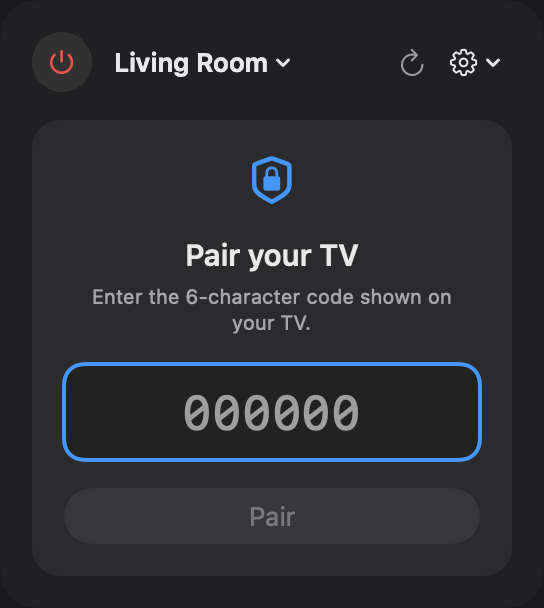
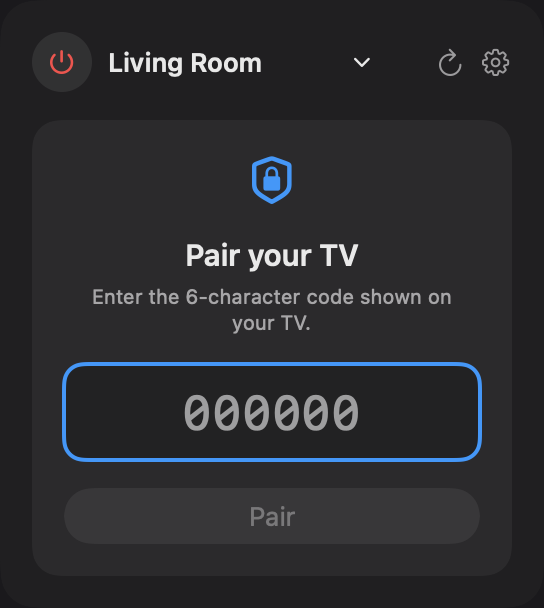
Keep TV selection and settings inside the remote window

diff --git a/Sources/UniversalTVRemote/App.swift b/Sources/UniversalTVRemote/App.swift
@@ -183,6 +183,8 @@ struct UniversalTVRemoteApp: App {
 
 // MARK: - The remote
 
+enum RemotePanel { case remote, devices, settings }
+
 struct RemoteView: View {
     @EnvironmentObject private var state: AppState
     @State private var pinInput = ""
@@ -200,14 +202,20 @@ struct RemoteView: View {
     @State private var renameInput = ""
     @State private var screenHeight: CGFloat = NSScreen.main?.visibleFrame.height ?? 800
     private let previewHeight: CGFloat?
+    @State private var panel: RemotePanel = .remote
 
-    init(appsExpanded: Bool = false, availableHeight: CGFloat? = nil) {
+    init(appsExpanded: Bool = false, availableHeight: CGFloat? = nil, panel: RemotePanel = .remote) {
         _appsExpanded = .init(initialValue: appsExpanded)
+        _panel = .init(initialValue: panel)
         previewHeight = availableHeight
     }
 
     private var maximumBodyHeight: CGFloat {
         max(180, (previewHeight ?? screenHeight) - 100)
+    }
+
+    private var capturesTextInput: Bool {
+        panel != .remote || addingManually || renaming || typingFocused || pairingFocused
     }
 
     var body: some View {
@@ -237,13 +245,13 @@ struct RemoteView: View {
         .environment(\.offlinePreview, !state.startsDiscovery)
         .onAppear {
             if case .awaitingPairing(.pin) = state.session?.state { pairingFocused = true }
+            state.textFieldFocused = capturesTextInput
             guard state.startsDiscovery else { return }
             state.discovery.scan()
             state.installKeyMonitors()
         }
-        .onDisappear { state.removeKeyMonitors() }
-        .onChange(of: typingFocused) { _, focused in state.textFieldFocused = focused || pairingFocused }
-        .onChange(of: pairingFocused) { _, focused in state.textFieldFocused = focused || typingFocused }
+        .onDisappear { state.removeKeyMonitors(); state.textFieldFocused = false }
+        .onChange(of: capturesTextInput) { _, focused in state.textFieldFocused = focused }
         .onChange(of: state.session?.state) { _, newState in
             pinInput = ""
             if case .awaitingPairing(.pin) = newState { pairingFocused = true }
@@ -257,16 +265,20 @@ struct RemoteView: View {
                 addTVForm
             } else if renaming {
                 renameForm
+            } else if panel == .devices {
+                deviceList
+            } else if panel == .settings {
+                settingsPanel
             } else {
                 statusSection
-            }
-            if case .connected = state.session?.state {
-                dpad
-                controlRows
-                keyboardField
-                appShortcuts
-            } else if state.session == nil {
-                emptyState
+                if case .connected = state.session?.state {
+                    dpad
+                    controlRows
+                    keyboardField
+                    appShortcuts
+                } else if state.session == nil {
+                    emptyState
+                }
             }
         }
     }
@@ -296,48 +308,97 @@ struct RemoteView: View {
             .foregroundStyle(.secondary)
             .help("Scan the network again")
 
-            settingsMenu
+            Button {
+                addingManually = false
+                renaming = false
+                panel = panel == .settings ? .remote : .settings
+            } label: {
+                Image(systemName: "gearshape")
+                    .foregroundStyle(panel == .settings ? Color.blue : Color.secondary)
+            }
+            .buttonStyle(.plain)
+            .help("Settings")
         }
     }
 
     private var devicePicker: some View {
-        Menu {
+        Button {
+            addingManually = false
+            renaming = false
+            panel = panel == .devices ? .remote : .devices
+        } label: {
+            HStack(spacing: 4) {
+                Text(state.session.map(displayName) ?? "Choose a TV")
+                    .lineLimit(1)
+                    .truncationMode(.tail)
+                Spacer(minLength: 0)
+                Image(systemName: panel == .devices ? "chevron.up" : "chevron.down")
+                    .font(.system(size: 9, weight: .semibold))
+            }
+            .font(.system(size: 13, weight: .semibold))
+            .frame(width: 132, alignment: .leading)
+        }
+        .buttonStyle(.plain)
+    }
+
+    private func panelHeading(_ title: String) -> some View {
+        HStack(spacing: 10) {
+            Button { panel = .remote } label: {
+                Image(systemName: "chevron.left")
+            }
+            .buttonStyle(.plain)
+            .help("Back to remote")
+            Text(title).font(.system(size: 15, weight: .semibold))
+            Spacer()
+        }
+    }
+
+    private var deviceList: some View {
+        VStack(alignment: .leading, spacing: 12) {
+            panelHeading("Your TVs")
             if state.discovery.devices.isEmpty {
-                Text("No TVs found yet")
+                Text("No TVs found yet").font(.caption).foregroundStyle(.secondary)
             }
             if !state.discovery.availableDevices.isEmpty {
-                Section("Discovered on this network") {
+                Text("Discovered on this network").font(.caption).foregroundStyle(.secondary)
                     ForEach(state.discovery.availableDevices) { device in
                         deviceMenuItem(device)
                     }
-                }
             }
             if !state.discovery.savedDevices.isEmpty {
-                Section("Saved · not currently discovered") {
+                Text("Saved · not currently discovered").font(.caption).foregroundStyle(.secondary)
                     ForEach(state.discovery.savedDevices) { device in
                         deviceMenuItem(device)
                     }
-                }
             }
             Divider()
             Button("Add TV by IP…") { addingManually = true }
-        } label: {
-            Text(state.session.map(displayName) ?? "Choose a TV")
-                .font(.system(size: 13, weight: .semibold))
-                .lineLimit(1)
-                .truncationMode(.tail)
-                .frame(width: 132, alignment: .leading)
+                .buttonStyle(.bordered)
         }
-        .menuStyle(.borderlessButton)
     }
 
     private func deviceMenuItem(_ device: DiscoveredTV) -> some View {
         Button {
             state.select(device)
+            panel = .remote
         } label: {
-            Label("\(state.discovery.displayName(for: device))  ·  \(device.brand.displayName)",
-                  systemImage: device.brand.symbolName)
+            HStack(spacing: 10) {
+                Image(systemName: device.brand.symbolName).frame(width: 20)
+                VStack(alignment: .leading, spacing: 3) {
+                    Text(state.discovery.displayName(for: device))
+                        .font(.system(size: 12, weight: .medium)).lineLimit(2)
+                    Text(device.brand.displayName).font(.caption2).foregroundStyle(.secondary)
+                }
+                Spacer(minLength: 0)
+                if state.session?.device.id == device.id {
+                    Image(systemName: "checkmark").foregroundStyle(.blue)
+                }
+            }
+            .padding(10)
+            .frame(maxWidth: .infinity, alignment: .leading)
+            .background(RoundedRectangle(cornerRadius: 10).fill(.white.opacity(0.05)))
         }
+        .buttonStyle(.plain)
     }
 
     /// The name to show for a session's TV: the user's custom nickname if set,
@@ -346,32 +407,48 @@ struct RemoteView: View {
         state.discovery.displayName(for: session.device)
     }
 
-    private var settingsMenu: some View {
-        Menu {
+    private var settingsPanel: some View {
+        VStack(alignment: .leading, spacing: 14) {
+            panelHeading("Settings")
             if let session = state.session {
-                Button("Rename…") {
+                settingsRow("Rename", symbol: "pencil") {
                     renameInput = displayName(session)
                     renaming = true
                 }
-                Button("Re-pair") { session.forgetAndRepair() }
-                Button("Forget this TV") {
+                settingsRow("Re-pair", symbol: "key") { session.forgetAndRepair(); panel = .remote }
+                settingsRow("Forget this TV", symbol: "trash", tint: .red) {
                     session.disconnect()
                     state.discovery.forget(session.device)
                     state.session = nil
+                    panel = .devices
                 }
                 Divider()
             }
             LaunchAtLoginToggle()
+                .toggleStyle(.switch)
+                .controlSize(.small)
             Divider()
             Text("v\(Bundle.main.object(forInfoDictionaryKey: "CFBundleShortVersionString") as? String ?? "dev")")
-            Button("Quit Universal TV Remote") { NSApp.terminate(nil) }
+                .font(.caption).foregroundStyle(.secondary)
+            settingsRow("Quit Universal TV Remote", symbol: "rectangle.portrait.and.arrow.right") { NSApp.terminate(nil) }
                 .keyboardShortcut("q")
-        } label: {
-            Image(systemName: "gearshape")
-                .foregroundStyle(.secondary)
         }
-        .menuStyle(.borderlessButton)
-        .fixedSize()
+    }
+
+    private func settingsRow(_ title: String, symbol: String, tint: Color = .primary,
+                             action: @escaping () -> Void) -> some View {
+        Button(action: action) {
+            HStack(spacing: 10) {
+                Image(systemName: symbol).frame(width: 20)
+                Text(title).font(.system(size: 12, weight: .medium))
+                Spacer(minLength: 0)
+            }
+            .foregroundStyle(tint)
+            .padding(10)
+            .frame(maxWidth: .infinity, alignment: .leading)
+            .background(RoundedRectangle(cornerRadius: 10).fill(.white.opacity(0.05)))
+        }
+        .buttonStyle(.plain)
     }
 
     // MARK: status + pairing
@@ -465,7 +542,7 @@ struct RemoteView: View {
                     Text(brand.displayName).tag(brand)
                 }
             }
-            .pickerStyle(.menu)
+            .pickerStyle(.radioGroup)
             TextField("IP address (e.g. 192.168.1.42)", text: $manualIP)
                 .textFieldStyle(.roundedBorder)
                 .onSubmit(addManualTV)
@@ -509,6 +586,7 @@ struct RemoteView: View {
             state.discovery.rename(device, to: renameInput)
         }
         renaming = false
+        panel = .settings
     }
 
     private func addManualTV() {
@@ -518,6 +596,7 @@ struct RemoteView: View {
         addingManually = false
         manualIP = ""
         state.select(device)
+        panel = .remote
     }
 
     private func submitPIN() {

diff --git a/Tests/UniversalTVRemoteTests/ScreenshotTests.swift b/Tests/UniversalTVRemoteTests/ScreenshotTests.swift
@@ -29,6 +29,8 @@ struct ScreenshotTests {
         let device = DiscoveredTV(id: "fireTV:demo", brand: .fireTV, name: "Living Room", host: "192.0.2.1")
         let discovery = DiscoveryEngine(defaults: defaults)
         discovery.upsert(device)
+        discovery.upsert(DiscoveredTV(id: "fireTV:saved", brand: .fireTV, name: "Bedroom",
+                                     host: "192.0.2.2"), discovered: false)
         let driver = ScreenshotDriver()
         let session = RemoteSession(device: device, driver: driver, defaults: defaults)
         let state = AppState(discovery: discovery, initialSession: session, startsDiscovery: false, defaults: defaults)
@@ -40,6 +42,8 @@ struct ScreenshotTests {
         for (filename, status, expanded) in [("remote-connected.png", SessionState.connected, false),
                                    ("remote-expanded.png", .connected, true),
                                    ("remote-expanded-compact.png", .connected, true),
+                                   ("remote-devices.png", .connected, false),
+                                   ("remote-settings.png", .connected, false),
                                    ("remote-pairing.png", .awaitingPairing(.pin(digits: 4)), false),
                                    ("remote-pairing-android.png", .awaitingPairing(.pin(digits: 6)), false),
                                    ("remote-disconnected.png", .failed("Disconnected — Fire TV remote service is unavailable"), false)] {
@@ -48,7 +52,8 @@ struct ScreenshotTests {
             await Task.yield()
             try await Task.sleep(nanoseconds: 100_000_000)
             let compact = filename == "remote-expanded-compact.png"
-            let view = RemoteView(appsExpanded: expanded, availableHeight: compact ? 620 : nil).environmentObject(state)
+            let panel: RemotePanel = filename == "remote-devices.png" ? .devices : filename == "remote-settings.png" ? .settings : .remote
+            let view = RemoteView(appsExpanded: expanded, availableHeight: compact ? 620 : nil, panel: panel).environmentObject(state)
                 .background(Color(red: 0.10, green: 0.10, blue: 0.11))
             let hosting = NSHostingView(rootView: view)
             hosting.appearance = NSAppearance(named: .darkAqua)

diff --git a/README.md b/README.md
@@ -19,6 +19,14 @@ Demo app tiles use letter placeholders.
   <img src="docs/screenshots/remote-disconnected.png" alt="Disconnected Fire TV with a Reconnect button" width="272" />
 </p>
 
+<details>
+<summary>TV selection and settings inside the same window</summary>
+<p>
+  <img src="docs/screenshots/remote-devices.png" alt="Inline TV selector separating live and saved TVs" width="272" />
+  <img src="docs/screenshots/remote-settings.png" alt="Inline settings with rename, re-pair, forget and launch at login" width="272" />
+</p>
+</details>
+
 ## Features
 
 - **Automatic discovery and remembered TVs:** Bonjour and SSDP find TVs on
@@ -52,7 +60,9 @@ Demo app tiles use letter placeholders.
   Remote buttons flash when a keyboard shortcut fires. System media keys
   continue to control your Mac.
 - **Device management:** rename TVs, clear a nickname, re-pair, forget a TV,
-  or add one manually by IP address or hostname.
+  or add one manually by IP address or hostname. TV selection, settings,
+  pairing, rename, and add-TV forms all stay inside the remote window;
+  no separate dropdown panels or dialogs are used.
 - **Launch at Login:** enable it from the settings menu.
 - Compact dark SwiftUI popover with immediate button presses and a pinned
   header when the app list expands. The panel fits its screen, scrolls long
